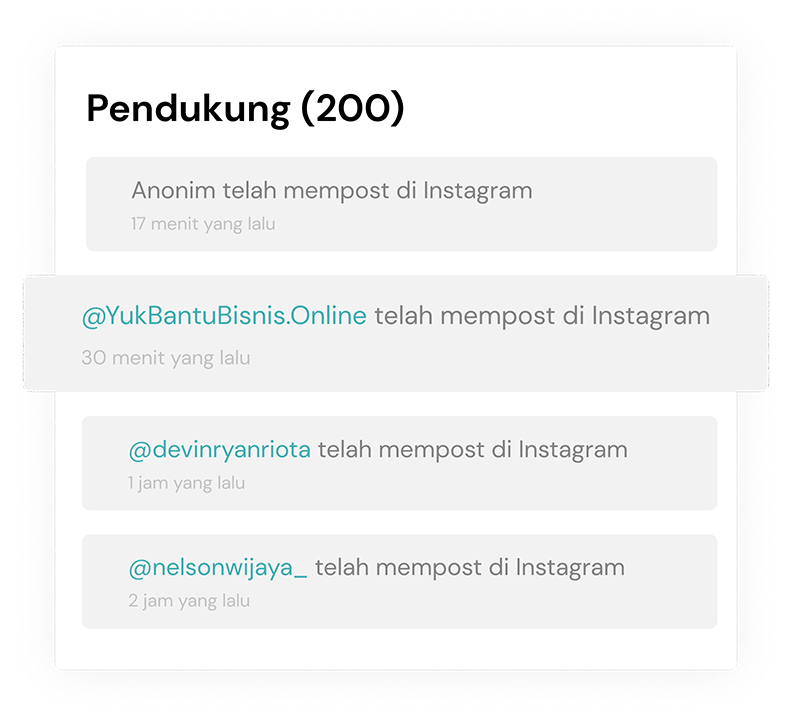
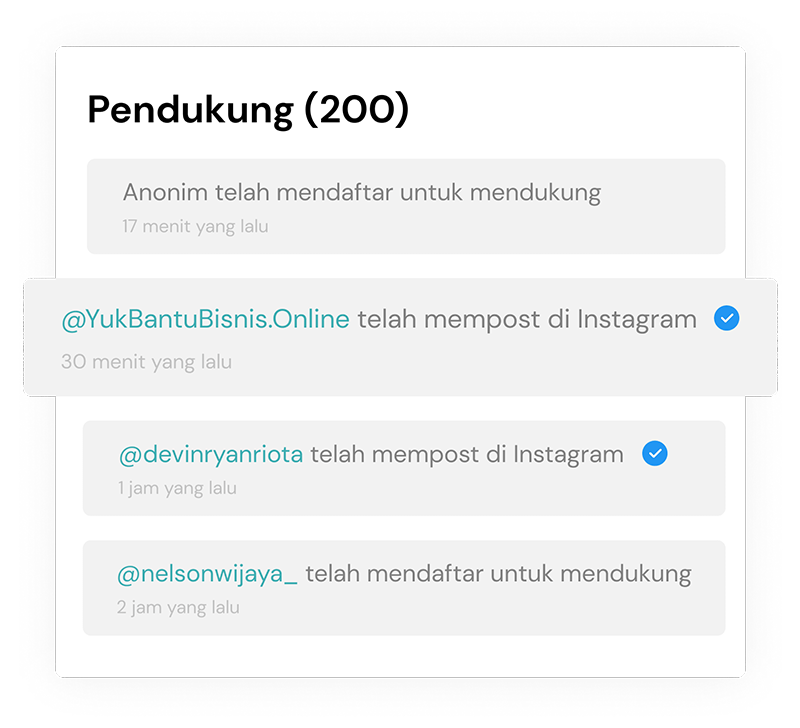
Duplicate improvement (#57)
* improve duplicate case

* update asset step 4 with verified logo

* [preview]

* remove @

* [preview]

diff --git a/src/routes/BusinessDetail/components/BusinessDetailForm.js b/src/routes/BusinessDetail/components/BusinessDetailForm.js
@@ -12,8 +12,7 @@ import EventLabel from "../../../utils/googleAnalytics/EventLabel"
 const Desktop = props => <Responsive {...props} minWidth={768} />
 const Mobile = props => <Responsive {...props} maxWidth={767} />
 
-const ERROR_MESSAGE_DUPLICATE_ENTRY = (id) => `Akun dengan id ${id} sudah mendukung bisnis ini. Hayoh salah ketik ya ?`
-const ERROR_MESSAGE_NOT_VALID = "Akun yang dimasukkan tidak valid, Hayoh coba dicek lagi !"
+const ERROR_MESSAGE_NOT_VALID = "Akun yang dimasukkan tidak valid. Hayoh coba dicek lagi!"
 const ERROR_MESSAGE_GENERAL = "Terjadi kesalahan pada sistem kami, mohon coba lagi dalam beberapa detik"
 
 class BusinessDetailForm extends BaseAnalyticsComponents {
@@ -31,7 +30,8 @@ class BusinessDetailForm extends BaseAnalyticsComponents {
     isError: false,
     isAnonymous: false,
     socialMediaAccount: "",
-    isSuccess: false
+    isSuccess: false,
+    isDuplicate: false
   }
 
 
@@ -56,7 +56,7 @@ class BusinessDetailForm extends BaseAnalyticsComponents {
     try{
       switch(errorResponse.meta.error_code){
         case 1003: this.setState({errorMessage:ERROR_MESSAGE_NOT_VALID});break;
-        case 1004: this.setState({errorMessage:ERROR_MESSAGE_DUPLICATE_ENTRY(this.state.socialMediaAccount)});break;
+        case 1004: this.setState({isDuplicate: true});break;
         default: this.setState({errorMessage: ERROR_MESSAGE_GENERAL})
       }
     }
@@ -80,7 +80,7 @@ class BusinessDetailForm extends BaseAnalyticsComponents {
   }
 
   render() {
-    const { isError, isAnonymous, isSuccess,socialMediaAccount, errorMessage } = this.state
+    const { isError, isAnonymous, isSuccess, socialMediaAccount, errorMessage, isDuplicate } = this.state
     const { isLoading, businessName ,numberOfBackers} = this.props
 
     return (
@@ -100,7 +100,21 @@ class BusinessDetailForm extends BaseAnalyticsComponents {
             <Fragment>
               <h2 className="bd-content__title">Terima kasih telah mendaftar</h2>
               <p className="desc">
-                Akun kamu telah berhasil terdaftar{ isAnonymous && " dan akan ditampilkan sebagai anonim" }, Silakan tekan tombol di bawah untuk mendownload gambar/video.
+                Akun kamu ({socialMediaAccount}) telah berhasil terdaftar{ isAnonymous && " dan akan ditampilkan sebagai anonim" }.{' '}
+                Silakan tekan tombol di bawah untuk mendownload gambar/video.
+              </p>
+              <p className="desc" style={{marginTop: '8px'}}>
+                Jangan lupa tag kami <a href={INSTAGRAM_PATH} target="_blank" rel="noopener noreferrer">@YukBantuBisnis.Online</a> agar akun Instagram kamu terverifikasi.
+              </p>
+              <button onClick={this.handleOnDownloadAssetButtonClick} className="button button--main">Download aset untuk dipost</button>
+            </Fragment>
+            :
+            isDuplicate ?
+            <Fragment>
+              <h2 className="bd-content__title">Kamu sudah pernah mendaftar</h2>
+              <p className="desc">
+                Akun dengan id {socialMediaAccount} sudah terdaftar. Terima kasih telah mendaftar!{' '}
+                Silakan tekan tombol di bawah untuk mendownload gambar/video.
               </p>
               <p className="desc" style={{marginTop: '8px'}}>
                 Jangan lupa tag kami <a href={INSTAGRAM_PATH} target="_blank" rel="noopener noreferrer">@YukBantuBisnis.Online</a> agar akun Instagram kamu terverifikasi.
@@ -124,7 +138,7 @@ class BusinessDetailForm extends BaseAnalyticsComponents {
               <form className="form">
                 <label className="label-input" for="account">Masukkan akun Instagram kamu</label>
                 <input type="text" id="account" name="account" value={socialMediaAccount} onChange={this.handleSocialMediaAccountInputChange} placeholder="Contoh: @instagram" />
-          { isError && <p className="label-error">{errorMessage}</p>}
+                { isError && <p className="label-error">{errorMessage}</p>}
                 <label class="checkbox-container form__checkbox">Sembunyikan akun saya (pendukung anonim)
                   <input type="checkbox" checked={isAnonymous}  onChange={this.handleCheckboxChange} />
                   <span class="checkmark" />
